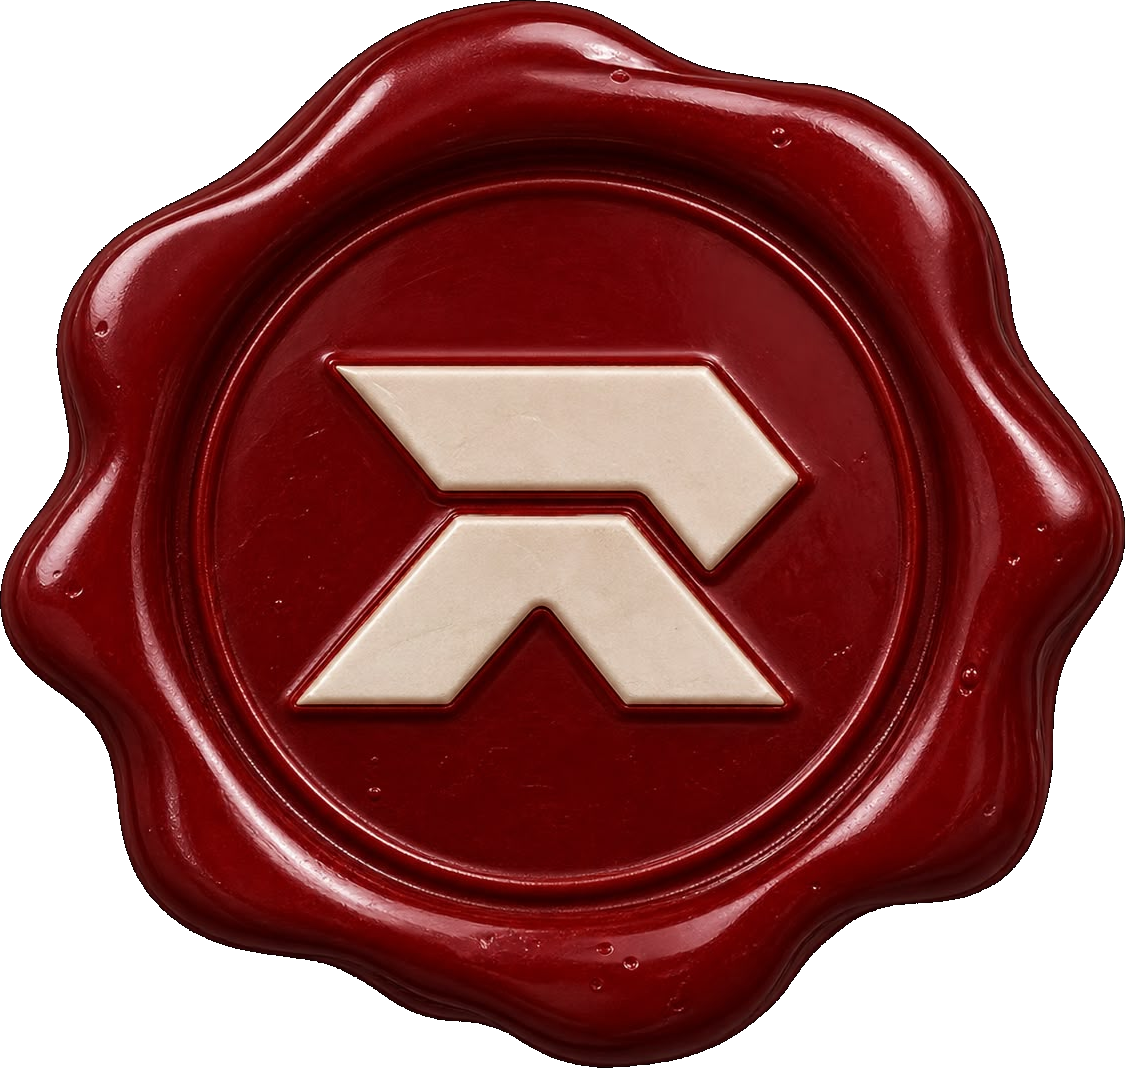
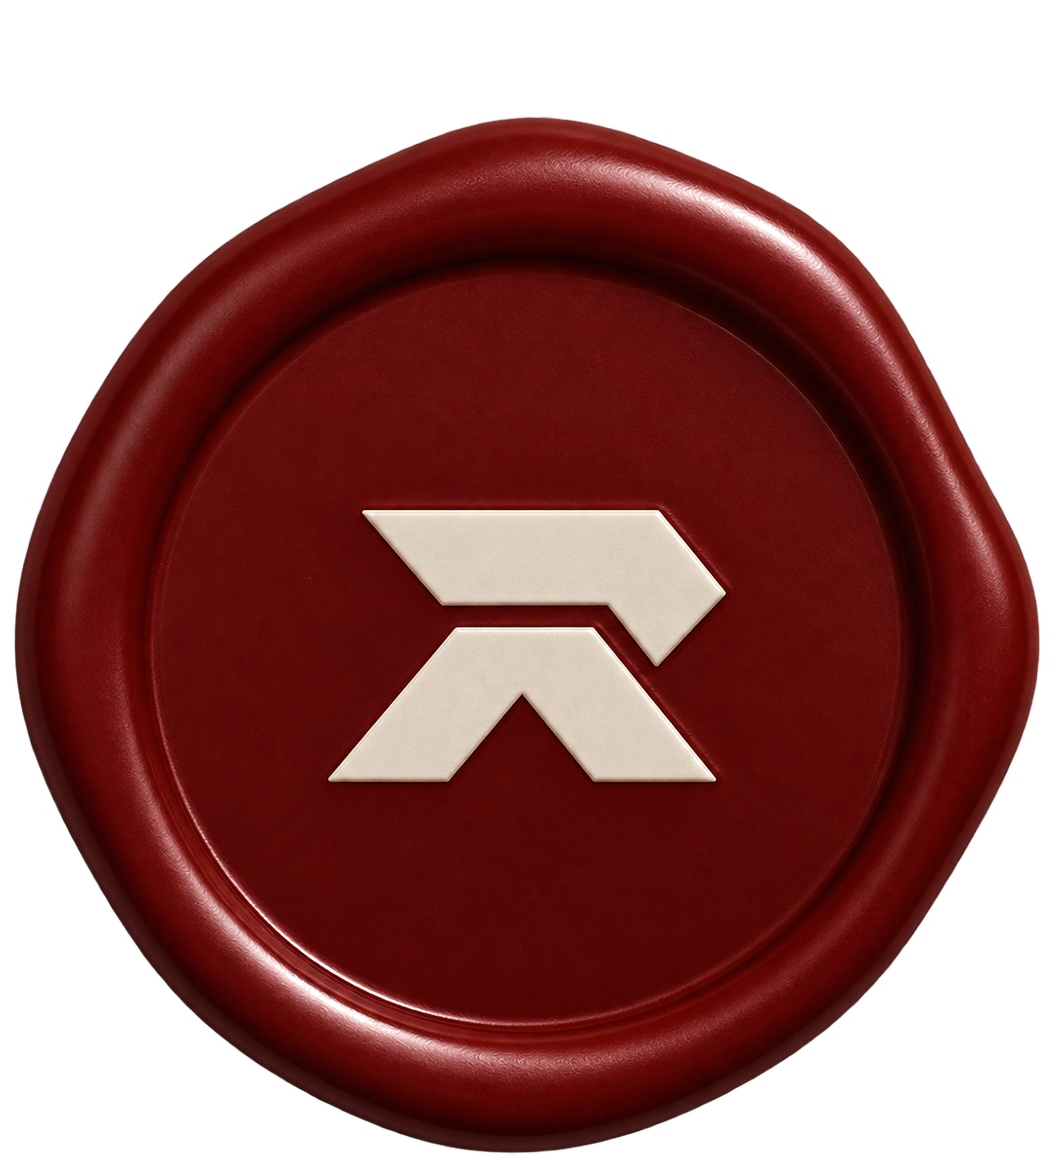
Add files via upload

diff --git a/style.css b/style.css
@@ -20,7 +20,11 @@ body {
   min-height: 100vh;
   font-family: 'Inter', system-ui, sans-serif;
   color: var(--ink);
-  background: linear-gradient(180deg, #2a0409 0%, #430811 100%);
+  background-color: #560e1b;
+  background-image: linear-gradient(rgba(37,0,8,.08),rgba(37,0,8,.08)), url('assets/veludo-canelado.webp');
+  background-position: center top;
+  background-size: auto, 360px auto;
+  background-repeat: repeat;
 }
 
 .page-shell {
@@ -35,10 +39,11 @@ body {
   position: relative;
   width: min(100%, 436px);
   padding: 22px;
-  border-radius: 28px;
+  border-radius: 26px;
   overflow: hidden;
-  background: linear-gradient(180deg, var(--frame-mid) 0%, var(--frame-dark) 100%);
-  box-shadow: var(--shadow);
+  background: linear-gradient(145deg, #27040b, #420a13 50%, #26030a);
+  border: 1px solid rgba(255,220,220,.08);
+  box-shadow: 0 28px 65px rgba(10,0,3,.65), 0 6px 18px rgba(10,0,3,.46), inset 0 1px 0 rgba(255,255,255,.07);
 }
 
 .invite-frame::before {
@@ -53,9 +58,8 @@ body {
 .velvet-surface {
   position: absolute;
   inset: 0;
-  background: url('assets/veludo-canelado.webp') center/cover no-repeat;
-  opacity: 0.92;
-  filter: saturate(1.05) contrast(1.02) brightness(0.82);
+  background: linear-gradient(rgba(23,0,4,.76),rgba(23,0,4,.78)),url('assets/veludo-canelado.webp') center / 360px auto repeat;
+  opacity: .9;
 }
 
 .frame-shadow {
@@ -154,7 +158,7 @@ body {
   padding: 0;
   border: 0;
   background: transparent;
-  cursor: pointer;
+  pointer-events: none;
   filter: drop-shadow(0 10px 16px rgba(54, 7, 12, 0.22));
 }
 
@@ -239,6 +243,14 @@ body {
   letter-spacing: 0.24em;
   font-weight: 700;
   color: var(--ink-soft);
+}
+.experience-note {
+  margin: 8px 0 0;
+  font-size: 9px;
+  letter-spacing: 0.22em;
+  font-weight: 700;
+  text-transform: uppercase;
+  color: rgba(126, 97, 94, 0.72);
 }
 .experience-copy,
 .price-line {
@@ -382,3 +394,159 @@ body {
   .modal-title, .success-title { font-size: 31px; }
   .wax-seal-image { width: 88px; }
 }
+
+/* Make the actual confirmation CTA the only interactive invitation element. */
+.cta-button { cursor: pointer; position: relative; z-index: 5; touch-action: manipulation; }
+.cta-button:focus-visible { outline: 3px solid #d8a2a1; outline-offset: 3px; }
+.wax-seal-wrap { pointer-events: none; }
+/* Guarantee the success state remains hidden until the response is submitted. */
+[hidden] { display: none !important; }
+@media (max-width: 480px) { body { background-size: auto, 300px auto; } }
+
+/* V06 — composição editorial simétrica, com 2 dados iguais e local em linha inteira. */
+.invite-header .wax-seal-wrap {
+  display: flex;
+  align-items: center;
+  justify-content: center;
+  width: 100%;
+  margin: -2px auto 14px;
+}
+.invite-header .wax-seal-image {
+  display: block;
+  margin: 0 auto;
+  flex-shrink: 0;
+}
+.event-details {
+  position: relative;
+  z-index: 1;
+  width: 100%;
+  margin: 27px auto 23px;
+  border-top: 1px solid var(--line);
+  border-bottom: 1px solid var(--line);
+  text-align: center;
+}
+.detail-pair {
+  display: grid;
+  grid-template-columns: minmax(0,1fr) minmax(0,1fr);
+  padding: 17px 0 15px;
+}
+.detail-cell {
+  display: flex;
+  flex-direction: column;
+  justify-content: center;
+  align-items: center;
+  min-width: 0;
+  padding: 0 8px;
+}
+.detail-cell:first-child { border-right: 1px solid var(--line); }
+.detail-location {
+  display: flex;
+  flex-direction: column;
+  align-items: center;
+  padding: 14px 12px 18px;
+  border-top: 1px solid var(--line);
+}
+.detail-label {
+  display: block;
+  margin-bottom: 7px;
+  color: var(--ink-soft);
+  font: 700 9px/1.3 'Inter', sans-serif;
+  letter-spacing: .27em;
+}
+.detail-value {
+  display: block;
+  color: var(--ink);
+  font: 600 23px/1.1 'Cormorant Garamond', serif;
+  letter-spacing: -.01em;
+}
+.detail-location .detail-value { font-size: 25px; }
+.experience-copy span { color: var(--accent); padding: 0 3px; font-weight: 700; }
+@media(max-width:360px) {
+ .detail-value { font-size: 21px; }
+ .detail-location .detail-value { font-size: 23px; }
+}
+
+/* V07 — selo de cera substituído pelo anexo do Raul. */
+.invite-header .wax-seal-image { width: 108px; max-width: 32vw; height: auto; }
+
+
+/* V09 — confirmação editorial: mantém a superfície de linho, renova apenas a experiência. */
+.modal { overflow-y: auto; overscroll-behavior: contain; }
+.modal-backdrop { position: fixed; background: rgba(28,3,9,.68); backdrop-filter: blur(7px); }
+.modal-panel {
+  width: min(calc(100% - 32px), 405px);
+  max-height: calc(100dvh - 42px);
+  overflow-y: auto;
+  margin: max(21px, calc((100dvh - 560px) / 2)) auto 21px;
+  padding: 40px 29px 31px;
+  border-radius: 2px;
+  border: 1px solid rgba(255,255,255,.38);
+  background: #f0e6d8;
+  box-shadow: 0 35px 90px rgba(14,0,3,.5), 0 4px 14px rgba(14,0,3,.2), inset 0 0 0 1px rgba(100,57,46,.08);
+}
+.modal-panel::after {
+  content: ""; position:absolute; inset: 9px; pointer-events: none;
+  border: 1px solid rgba(97,48,51,.14); z-index: 0;
+}
+.modal-panel .panel-paper { opacity:.43; }
+.modal-panel .close-button {
+  z-index: 5; right: 15px; top: 12px; width: 34px; height: 34px;
+  font-family: 'Manrope',sans-serif; font-weight:400; font-size:26px;
+  color:#713f43; transition:color .2s;
+}
+.modal-panel .close-button:hover { color:#971b27; }
+.dialog-monogram { display:flex; justify-content:center; align-items:center; margin:0 auto 21px; }
+.dialog-monogram img { width:34px; height:auto; filter:brightness(0) saturate(100%) invert(17%) sepia(34%) saturate(1813%) hue-rotate(318deg) brightness(88%) contrast(94%); opacity:.85; }
+.modal-panel .panel-kicker {
+  margin:0 auto; font:700 9px/1.5 'Manrope',sans-serif;
+  letter-spacing:.28em; color:#98696b;
+}
+.modal-panel .modal-title {
+  margin:14px auto 0; max-width:330px;
+  color:#572a31; font:600 clamp(32px, 8vw, 39px)/.99 'Cormorant Garamond',serif;
+  letter-spacing:-.035em;
+}
+.modal-title em { font-style:italic; font-weight:500; }
+.dialog-divider { display:flex; justify-content:center; margin:21px 0 2px; }
+.dialog-divider span { display:block; height:1px; width:52px; background:#b58d83; opacity:.8; }
+.modal-panel .field-label {
+  text-align:left; margin:23px 0 9px;
+  color:#8e6865; font:700 9px/1.4 'Manrope',sans-serif; letter-spacing:.23em;
+}
+.modal-panel .text-input {
+  min-height:49px; border-radius:0; background:rgba(255,255,255,.18);
+  border:1px solid rgba(96,56,52,.24); padding:0 14px;
+  color:#55252c; font:500 14px/1.4 'Manrope',sans-serif;
+  box-shadow:none; transition:border-color .15s, background .15s;
+}
+.modal-panel .text-input::placeholder { color:#aa8d83; font-weight:400; }
+.modal-panel .text-input:focus { border-color:#8f2830; background:rgba(255,255,255,.35); box-shadow:none; }
+.modal-panel .choice-row { gap:9px; }
+.modal-panel .choice-btn {
+  min-height:48px; display:flex; align-items:center; justify-content:center; gap:9px;
+  padding:10px 7px; border-radius:0; background:transparent;
+  border:1px solid rgba(96,56,52,.25); color:#734749;
+  font:600 11px/1.3 'Manrope',sans-serif; letter-spacing:.005em;
+  transition:border-color .15s,background .15s,color .15s;
+}
+.choice-indicator { display:block; flex:0 0 12px; width:12px; height:12px; border:1px solid currentColor; border-radius:50%; position:relative; opacity:.75; }
+.modal-panel .choice-btn.active { border-color:#74252d; background:#74252d; color:#f8efe3; box-shadow:none; }
+.modal-panel .choice-btn.active .choice-indicator::after { content:""; position:absolute; inset:3px; border-radius:50%; background:currentColor; }
+.modal-panel .submit-btn {
+  display:flex; justify-content:center; align-items:center; gap:12px;
+  margin-top:29px; border-radius:0; min-height:53px;
+  background:#76232d; box-shadow:0 9px 17px rgba(92,25,33,.13);
+  font:700 10px/1.2 'Manrope',sans-serif; letter-spacing:.19em;
+  transition:background .2s, transform .2s;
+}
+.modal-panel .submit-btn:hover { background:#8b2a34; }
+.modal-panel .submit-btn:active { transform:translateY(1px); }
+.modal-panel .submit-btn span { font-size:18px; font-weight:400; line-height:0; }
+.modal-panel .success-state { padding:23px 0 8px; }
+.success-mark img { display:block; width:105px; height:auto; margin:0 auto 19px; filter:drop-shadow(0 7px 9px rgba(63,13,21,.16)); }
+.modal-panel .success-title { margin:15px 0 18px; font:600 clamp(34px, 9vw, 45px)/1.06 'Cormorant Garamond',serif; color:#572a31; letter-spacing:-.025em; }
+@media(max-width:360px){
+  .modal-panel { padding:37px 20px 24px; width:calc(100% - 20px); }
+  .modal-panel .choice-btn { font-size:10px; gap:6px; }
+}
+@media(prefers-reduced-motion:reduce){ .modal-panel .submit-btn,.modal-panel .choice-btn { transition:none; } }

diff --git a/index.html b/index.html
@@ -7,8 +7,8 @@
   <title>NOME DO EVENTO — Raul Tomaz</title>
   <link rel="preconnect" href="https://fonts.googleapis.com">
   <link rel="preconnect" href="https://fonts.gstatic.com" crossorigin>
-  <link href="https://fonts.googleapis.com/css2?family=Inter:wght@400;500;600;700;800&family=Cormorant+Garamond:wght@500;600;700&display=swap" rel="stylesheet">
-  <link rel="stylesheet" href="style.css?v=10">
+  <link href="https://fonts.googleapis.com/css2?family=Inter:wght@400;500;600;700;800&family=Manrope:wght@400;500;600;700&family=Cormorant+Garamond:wght@500;600;700&display=swap" rel="stylesheet">
+  <link rel="stylesheet" href="style.css?v=16">
 </head>
 <body>
   <main class="page-shell">
@@ -25,10 +25,10 @@
         <div class="paper-crumple crumple-3"></div>
 
         <header class="invite-header">
-          <button class="wax-seal-wrap" id="sealOpen" type="button" aria-label="Abrir confirmação de presença" title="Confirmar presença">
-            <img class="wax-seal-image" src="assets/selo-cera-raul.png" alt="Selo Raul Tomaz">
-          </button>
-          <p class="eyebrow">RAUL TOMAZ APRESENTA</p>
+          <div class="wax-seal-wrap" aria-hidden="true">
+            <img class="wax-seal-image" src="assets/selo-cera-raul.png" alt="">
+          </div>
+          <p class="eyebrow">RAUL TOMAZ PRESENTS</p>
           <h1 class="main-title">
             <span class="title-top">NOME DO</span>
             <span class="title-bottom">EVENTO</span>
@@ -36,24 +36,27 @@
           <p class="intro-copy">Um encontro premium e descontraído para reunir esporte, boa energia e pessoas que fazem parte dessa jornada.</p>
         </header>
 
-        <section class="info-grid" aria-label="Informações principais do evento">
-          <article class="info-item">
-            <span class="label">DATA</span>
-            <strong class="value">A definir</strong>
-          </article>
-          <article class="info-item">
-            <span class="label">HORÁRIO</span>
-            <strong class="value">Em breve</strong>
-          </article>
-          <article class="info-item">
-            <span class="label">LOCAL</span>
-            <strong class="value">Arenas The Sen5es</strong>
+        <section class="event-details" aria-label="Informações do evento">
+          <div class="detail-pair">
+            <article class="detail-cell">
+              <span class="detail-label">DATE</span>
+              <strong class="detail-value">A definir</strong>
+            </article>
+            <article class="detail-cell">
+              <span class="detail-label">TIME</span>
+              <strong class="detail-value">Em breve</strong>
+            </article>
+          </div>
+          <article class="detail-location">
+            <span class="detail-label">PLACE</span>
+            <strong class="detail-value">Arenas The Sen5es</strong>
           </article>
         </section>
 
         <section class="experience-block">
           <p class="section-kicker">A EXPERIÊNCIA</p>
-          <p class="experience-copy">Quadras de areia liberadas, drinks e espetos à vontade.</p>
+          <p class="experience-copy">Quadras liberadas <span aria-hidden="true">•</span> Drinks &amp; gastronomia</p>
+          <p class="experience-note">Consumação inclusa</p>
           <p class="price-line">Taxa de participação <strong>R$ 89,00 por pessoa</strong></p>
         </section>
 
@@ -70,28 +73,31 @@
       <button class="close-button" id="closeModal" type="button" aria-label="Fechar">×</button>
       <div class="panel-paper"></div>
       <div class="modal-state" id="formState">
+        <div class="dialog-monogram" aria-hidden="true"><img src="assets/logo-raul-tomaz.png" alt=""></div>
         <p class="panel-kicker">LISTA DE CONVIDADOS</p>
-        <h2 class="modal-title" id="confirmTitle">Podemos contar com sua presença?</h2>
+        <h2 class="modal-title" id="confirmTitle">Podemos contar com<br><em>sua presença?</em></h2>
+        <div class="dialog-divider" aria-hidden="true"><span></span></div>
         <form id="confirmForm" novalidate>
-          <label class="field-label" for="guestName">Seu nome</label>
-          <input class="text-input" id="guestName" name="guestName" type="text" placeholder="Digite seu nome" autocomplete="name" maxlength="90" required>
-          <label class="field-label">Confirmação</label>
+          <label class="field-label" for="guestName">SEU NOME</label>
+          <input class="text-input" id="guestName" name="guestName" type="text" placeholder="Como podemos te chamar?" autocomplete="name" maxlength="90" required>
+          <label class="field-label">CONFIRMAÇÃO</label>
           <div class="choice-row" role="group" aria-label="Escolha sua resposta">
-            <button class="choice-btn active" type="button" data-choice="Sim">Confirmar</button>
-            <button class="choice-btn" type="button" data-choice="Não">Não poderei</button>
+            <button class="choice-btn active" type="button" data-choice="Sim" aria-pressed="true"><span class="choice-indicator" aria-hidden="true"></span>Estarei presente</button>
+            <button class="choice-btn" type="button" data-choice="Não" aria-pressed="false"><span class="choice-indicator" aria-hidden="true"></span>Não poderei</button>
           </div>
           <input type="hidden" id="presenceValue" name="presenceValue" value="Sim">
-          <button class="submit-btn" id="submitBtn" type="submit">Enviar resposta</button>
+          <button class="submit-btn" id="submitBtn" type="submit">ENVIAR RESPOSTA <span aria-hidden="true">↗</span></button>
         </form>
       </div>
       <div class="modal-state success-state" id="successState" hidden>
-        <div class="success-emblem">✓</div>
+        <div class="success-mark" aria-hidden="true"><img src="assets/selo-cera-raul.png" alt=""></div>
+        <p class="panel-kicker">RESPOSTA RECEBIDA</p>
         <h2 class="success-title" id="successTitle">Perfeito!</h2>
-        <button class="submit-btn" id="finishBtn" type="button">Fechar</button>
+        <button class="submit-btn" id="finishBtn" type="button">FECHAR <span aria-hidden="true">↗</span></button>
       </div>
     </div>
   </div>
 
-  <script src="script.js?v=10"></script>
+  <script src="script.js?v=16"></script>
 </body>
 </html>

diff --git a/script.js b/script.js
@@ -32,11 +32,11 @@
     presenceValue.value = value;
     choiceButtons.forEach((button) => {
       button.classList.toggle('active', button.dataset.choice === value);
+      button.setAttribute('aria-pressed', String(button.dataset.choice === value));
     });
   }
 
   openModalBtn.addEventListener('click', openModal);
-  document.getElementById('sealOpen')?.addEventListener('click', openModal);
   closeModalBtn.addEventListener('click', closeModal);
   finishBtn.addEventListener('click', closeModal);
 

diff --git a/README.md b/README.md
@@ -1,18 +1,14 @@
-# Convite Raul Tomaz — v4 linho + novo selo
+# Convite Raul Tomaz — V09 | Confirmação editorial
 
-Versão atualizada com:
-- fundo de veludo mantido
-- moldura mais escura para destacar o fundo do convite
-- papel com textura de linho
-- novo selo de cera aplicado no topo
+Esta versão mantém o convite principal da V08, com veludo, papel de linho, selo decorativo e os textos existentes. A tela de confirmação e a tela de sucesso foram redesenhadas.
 
-## Publicação no GitHub Pages
-1. Envie todos os arquivos para a raiz do repositório.
-2. Mantenha `index.html`, `style.css`, `script.js` e a pasta `assets`.
-3. Vá em **Settings > Pages**.
-4. Escolha **Deploy from a branch**.
-5. Use a branch `main` e a pasta `/root`.
-6. Salve e aguarde a publicação.
+## Publicação
 
-## Observação
-A confirmação continua funcionando apenas visualmente nesta etapa.
+Extraia o ZIP e envie `index.html`, `style.css`, `script.js` e `assets/` à raiz do repositório GitHub Pages, substituindo os anteriores.
+
+## Importante
+
+A confirmação permanece uma **demonstração local**: ainda não registra nomes nem presenças em planilhas.
+
+## Versão 10
+- LOCATION alterado para PLACE no convite; formulário premium mantido.
